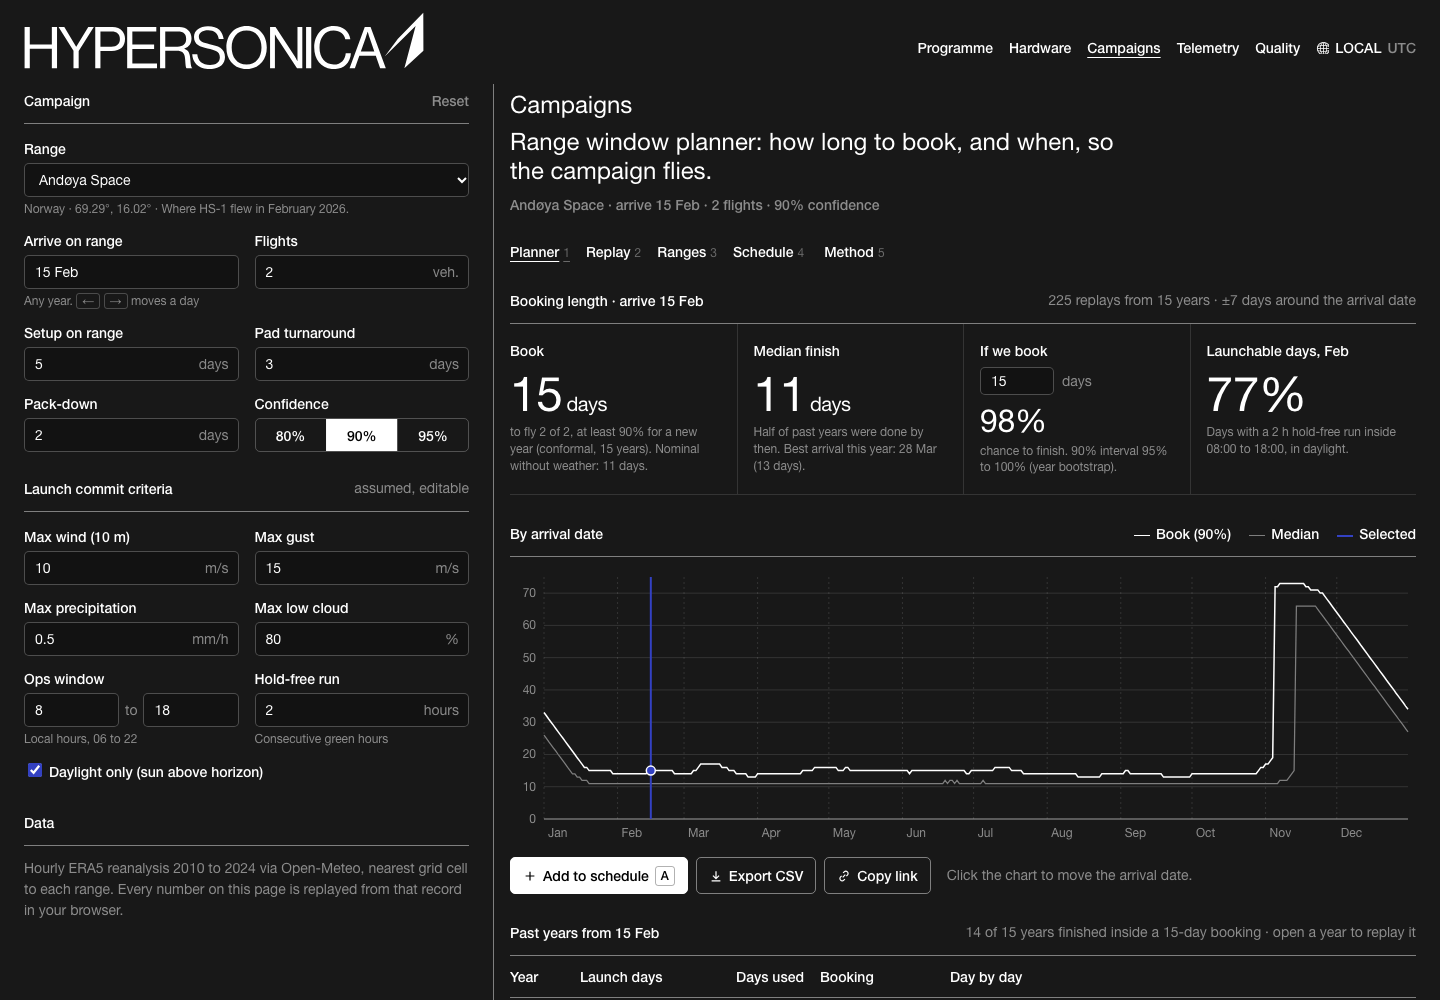
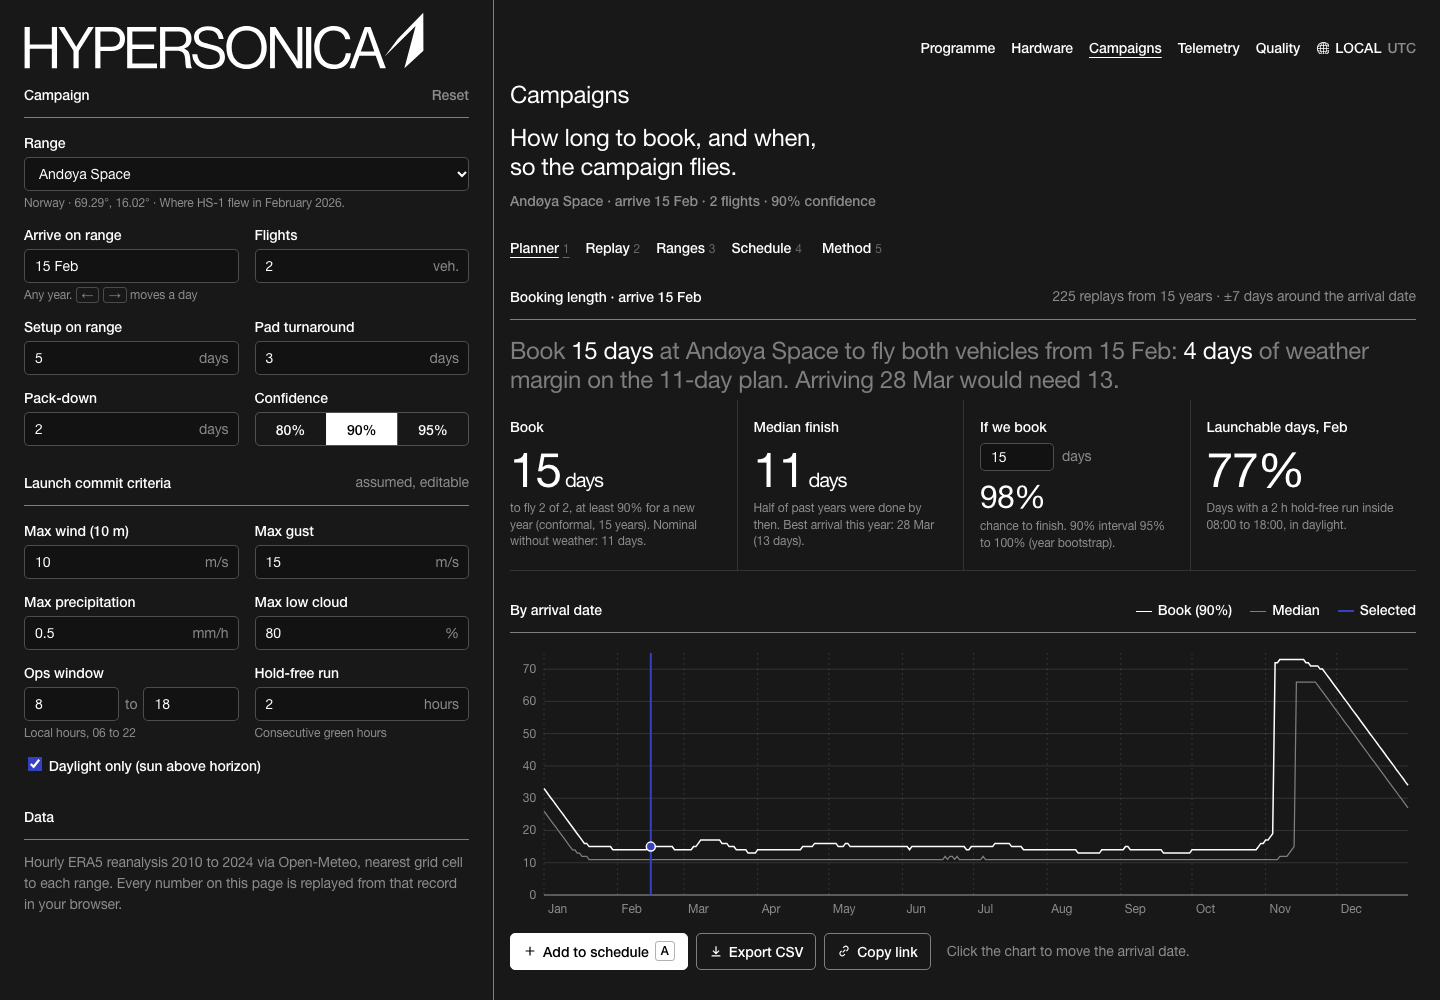
Match site hero layout; lede statement; responsive and copy fixes

diff --git a/styles.css b/styles.css
@@ -41,6 +41,7 @@
 * { box-sizing: border-box; }
 html, body { margin: 0; background: var(--color-bg); color: var(--color-text); }
 body {
+  letter-spacing: -0.005em;
   font-family: var(--font-family-body);
   font-size: var(--font-size-base);
   line-height: var(--line-height-base);
@@ -55,11 +56,12 @@ button, input, select { font: inherit; color: inherit; }
 
 /* ---------- header (mirrors site header: logo left, nav right, 14px/500) ---------- */
 .header {
-  position: sticky; top: 0; z-index: 20; height: 84px;
+  position: sticky; top: 0; z-index: 20; height: 78px;
   display: flex; align-items: flex-start; justify-content: space-between;
   padding: 12px var(--sizes-page-padding) 0;
   background: var(--color-bg);
 }
+.header::after { content: ""; position: absolute; left: var(--col-left); top: 0; bottom: 0; border-left: 1px solid var(--line); }
 .logo { display: block; width: var(--logo-width); color: var(--color-white); margin-top: 0; }
 .logo svg { display: block; width: 100%; height: auto; }
 .nav { display: flex; gap: 16px; align-items: center; margin-top: 25px; font-weight: var(--font-weight-medium); }
@@ -71,11 +73,11 @@ button, input, select { font: inherit; color: inherit; }
 .nav .tz svg { width: 13px; height: 13px; }
 
 /* ---------- page grid: left column under logo, vertical rule at the site's x position ---------- */
-.page { display: grid; grid-template-columns: var(--col-left) 1fr; min-height: calc(100vh - 84px); }
+.page { display: grid; grid-template-columns: var(--col-left) 1fr; min-height: calc(100vh - 78px); }
 .side { padding: 6px var(--sizes-page-padding) 40px; }
 .main { border-left: 1px solid var(--line); padding: 0 var(--sizes-page-padding) 40px 16px; min-width: 0; }
-.page-title { font-size: var(--font-size-h2); line-height: 1.2; margin: 0 0 8px; font-weight: var(--font-weight-regular); padding-top: 4px; }
-.page-sub { font-size: var(--font-size-h2); line-height: 1.2; margin: 0; font-weight: var(--font-weight-regular); max-width: 620px; }
+.page-title { font-size: var(--font-size-h2); line-height: 1.2; margin: 0 0 14px; font-weight: var(--font-weight-regular); letter-spacing: -0.015em; }
+.page-sub { font-size: var(--font-size-h2); line-height: 1.2; margin: 0; font-weight: var(--font-weight-regular); max-width: 330px; letter-spacing: -0.015em; }
 .page-meta { margin-top: 10px; font-weight: var(--font-weight-medium); opacity: var(--secondary-text-opacity); }
 
 /* sub-navigation tabs, same treatment as the site nav (underline = current) */
@@ -128,7 +130,7 @@ button, input, select { font: inherit; color: inherit; }
 .kpi { padding: 16px 16px 18px 0; }
 .kpi + .kpi { padding-left: 16px; border-left: 1px solid var(--line-soft); }
 .kpi .label { font-weight: var(--font-weight-medium); }
-.kpi .value { font-size: var(--font-size-display); line-height: 1.1; font-weight: var(--font-weight-regular); letter-spacing: -0.01em; margin-top: 6px; white-space: nowrap; }
+.kpi .value { font-size: var(--font-size-display); line-height: 1.1; font-weight: var(--font-weight-regular); letter-spacing: -0.025em; margin-top: 6px; white-space: nowrap; }
 .kpi .value small { font-size: 20px; margin-left: 4px; }
 .kpi .note { margin-top: 4px; opacity: var(--secondary-text-opacity); font-size: 12px; line-height: 1.4; }
 .kpi .inline { display: flex; align-items: center; gap: 8px; margin-top: 6px; }
@@ -225,3 +227,8 @@ kbd { font-family: inherit; border: 1px solid var(--line); border-radius: 3px; p
   .kpi .value { font-size: 40px; }
   .two { grid-template-columns: 1fr 320px; }
 }
+
+/* large secondary statement under a section rule (site pattern: "Our approach enables ...") */
+.lede { font-size: var(--font-size-h2); line-height: 1.2; letter-spacing: -0.015em; color: var(--color-gray300); margin: 16px 0 6px; max-width: 860px; }
+.lede b { color: var(--color-white); font-weight: var(--font-weight-regular); }
+.hours td:last-child { white-space: nowrap; }

diff --git a/app.js b/app.js
@@ -184,9 +184,9 @@ async function render() {
   const sm = META.sites.find((x) => x.slug === state.site);
   const [m, d] = parseStart(state.start);
   $('meta').textContent = sm.name + ' · arrive ' + fmtMD(m, d) + ' · ' + state.flights + (state.flights === 1 ? ' flight' : ' flights') + ' · ' + state.conf + '% confidence';
-  const subs = { planner: 'Range window planner: how long to book, and when, so the campaign flies.', replay: 'Replay every past year of this window, day by day and hour by hour.',
-    ranges: 'Compare ranges month by month under the same campaign and criteria.', schedule: 'Your requested range windows, and the year plan that books the fewest days.',
-    method: 'How the booking length is computed and how well it held up.' };
+  const subs = { planner: 'How long to book, and when, so the campaign flies.', replay: 'Every past year of this window, day by day.',
+    ranges: 'Five ranges, month by month, same campaign.', schedule: 'Range windows, and the year plan that books fewest days.',
+    method: 'How the booking is computed, and how it held up.' };
   $('sub').textContent = subs[state.tab];
   document.title = ({ planner: 'Planner', replay: 'Replay', ranges: 'Ranges', schedule: 'Schedule', method: 'Method' })[state.tab] + ' · Campaigns · Hypersonica (concept)';
   const view = $('view');
@@ -262,6 +262,7 @@ function plannerView(site) {
   return `
   <div class="section">
     <div class="section-head"><span>Booking length · arrive ${fmtMD(m, d)}</span><span class="muted">${P.reps.length} replays from ${new Set(P.reps.map((r) => r.year)).size} years · ±${JITTER} days around the arrival date</span></div>
+    <p class="lede">${c.book === Infinity ? `Arriving ${fmtMD(m, d)}, ${esc(site.name)} <b>never reliably finishes</b> ${s.flights} flights within 120 days under these criteria.` : `Book <b>${c.book} days</b> at ${esc(site.name)} to fly ${s.flights === 1 ? 'one vehicle' : s.flights === 2 ? 'both vehicles' : 'all ' + s.flights + ' vehicles'} from ${fmtMD(m, d)}: <b>${c.book - minNominal} ${c.book - minNominal === 1 ? 'day' : 'days'}</b> of weather margin on the ${minNominal}-day plan.${best.book < c.book ? ` Arriving ${fmtMD(best.m, best.d)} would need ${best.book}.` : ' This is the shortest booking of the year.'}`}</p>
     <div class="kpis">
       <div class="kpi"><div class="label">Book</div><div class="value">${bookTxt}<small>days</small></div><div class="note">to fly ${s.flights} of ${s.flights}, at least ${s.conf}% for a new year (conformal, 15 years). Nominal without weather: ${minNominal} days.</div></div>
       <div class="kpi"><div class="label">Median finish</div><div class="value">${fmtDays(c.median)}<small>days</small></div><div class="note">Half of past years were done by then. Best arrival this year: ${fmtMD(best.m, best.d)} (${fmtDays(best.book)} days).</div></div>

diff --git a/index.html b/index.html
@@ -54,9 +54,9 @@
   </aside>
 
   <main class="main" id="main">
-    <div style="padding-top:2px">
+    <div style="padding-top:2px;position:relative">
       <h1 class="page-title">Campaigns</h1>
-      <p class="page-sub" id="sub">Book range time you will actually use.</p>
+      <p class="page-sub" id="sub">How long to book, and when, so the campaign flies.</p>
       <div class="page-meta" id="meta">&nbsp;</div>
     </div>
     <nav class="tabs" role="tablist" aria-label="Planner views">
